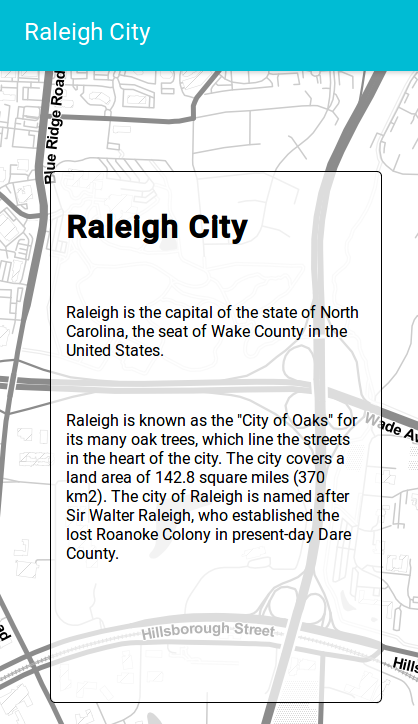
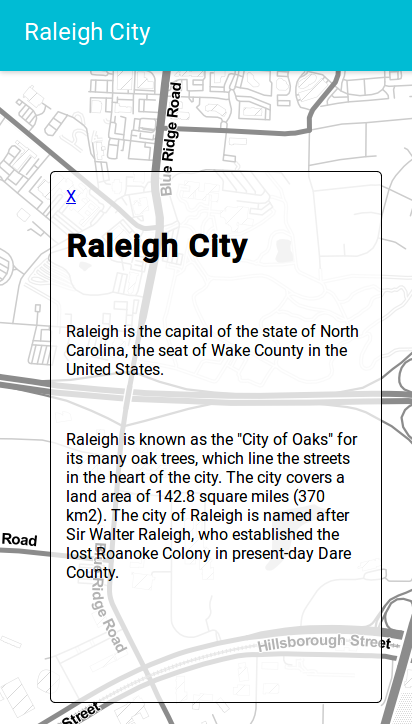
Updates about panel description ans screenshot

diff --git a/docs/source/controls.rst b/docs/source/controls.rst
@@ -9,7 +9,8 @@ In this page, you can find the description of all the controls that can be
 About panel
 -----------
 
-Adds a translucent text panel over the map, usually for describing the app.
+Adds a translucent text panel over the map, usually for describing the app. A
+button allows to permanently close the panel.
 
 .. figure:: img/aboutpanel.png
 
